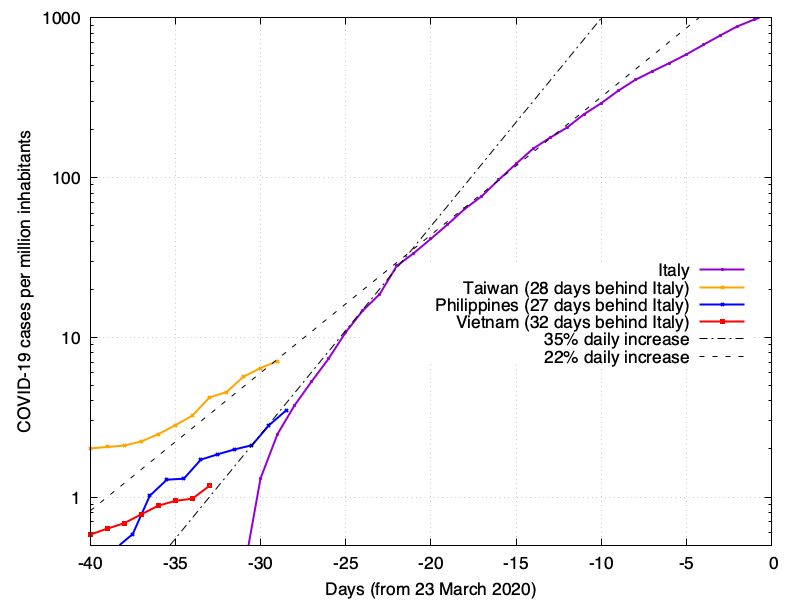
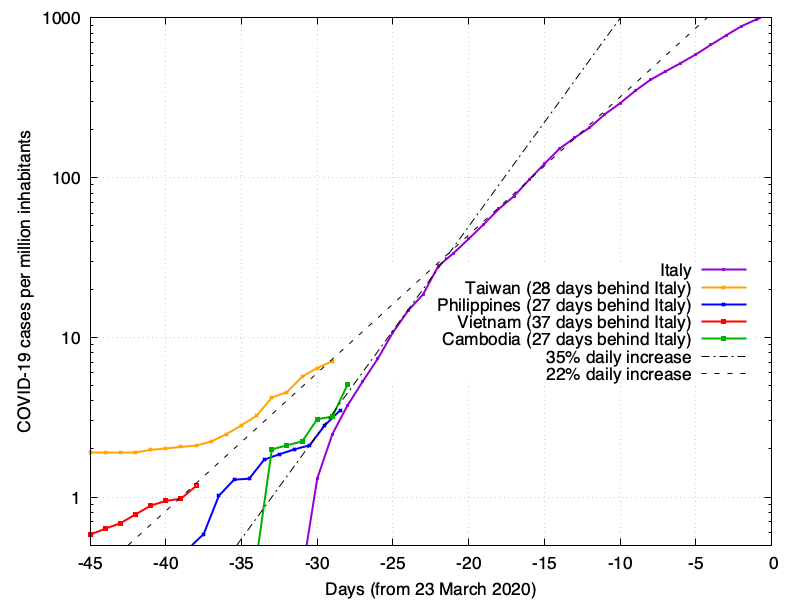
Add cambodia

diff --git a/www/index.html b/www/index.html
@@ -46,9 +46,10 @@ are my interpretation only.  Nevertheless, I hope you find it useful.
     <DT><a href="#un">Graph 14</a>: Italy, Switzerland, Washington, New York, New Jersey, Colorado, California, Florida, Louisiana, Michigan</DT>
     <DT><a href="#wn2">Graph 15</a>: Italy, USA, Canada, Israel, Chile, Pakistan, Turkey</DT>
     <DT><a href="#sa">Graph 16</a>: Italy, Argentina, Bolivia, Brazil, Chile, Ecuador, Paraguay, Peru, Uruguay, Venezuela</DT>
-    <DT><a href="#ww">Graph 17</a>: Italy, Spain, USA, Qatar, Thailand, Malaysia, Brazil, Bahrain, Indonesia, Kuwait, Egypt, India, Australia</DT>
-    <DT><a href="#ww2">Graph 18</a>: Qatar, Thailand, Malaysia, Brazil, Bahrain, Indonesiam Kuwait, Egypt, India, Australia</DT>
-    <DT><a href="#wl">Graph 19</a>: China, Italy, Iran, France, USA, South Korea, Japan (Linear Scale)</DT>
+    <DT><a href="#sea">Graph 17</a>: Italy, Vietnam, Philippines, Taiwan, Cambodia</DT>
+    <DT><a href="#ww">Graph 18</a>: Italy, Spain, USA, Qatar, Thailand, Malaysia, Brazil, Bahrain, Indonesia, Kuwait, Egypt, India, Australia</DT>
+    <DT><a href="#ww2">Graph 19</a>: Qatar, Thailand, Malaysia, Brazil, Bahrain, Indonesiam Kuwait, Egypt, India, Australia</DT>
+    <DT><a href="#wl">Graph 20</a>: China, Italy, Iran, France, USA, South Korea, Japan (Linear Scale)</DT>
     </DL>
 
     <h2>Europe</h2>
@@ -376,6 +377,15 @@ are my interpretation only.  Nevertheless, I hope you find it useful.
   <LI>Most South American countries have been roughly along the 35% daily increase curve that Italy initially followed.
   <LI>Argentina seems to be roughly tracking along the 22% daily increase curve that Italy later moved on to.
   <LI>Cases in Ecuador are increasing significantly faster than 35% per day.  This usually indicates that the epidemic has spread without being detected, and testing is now catching up.
+</UL>
+<a name="sea"><h3>South East Asia, Confirmed Cases Per Million Inhabitants</h3></a>
+<img src="23mar2020/covid-world-seasia.png">
+<UL>
+  <LI> The graph shows number of confirmed cases per million
+  inhabitants, plotted on a log scale, against time.  The country
+    curves are shown offset by the amounts shown.
+  <LI>Data on this graph comes directly from the <a href="https://github.com/CSSEGISandData/COVID-19/tree/master/csse_covid_19_data">JHU dataset</a>.  I have not double-checked the data, and it may lag by up to a day.
+  <LI>I have included a graph for Vietnam, Cambodia, Taiwan and the Philippines, not because the situation there is bad (they all have a few weeks lead time to prepare), but because the trend for each has recently started to look worrying.  
 </UL>
 <a name="ww"><h3>World, Confirmed Cases, Warm Countries</h3></a>
 <img src="23mar2020/covid-world-warm.png">
